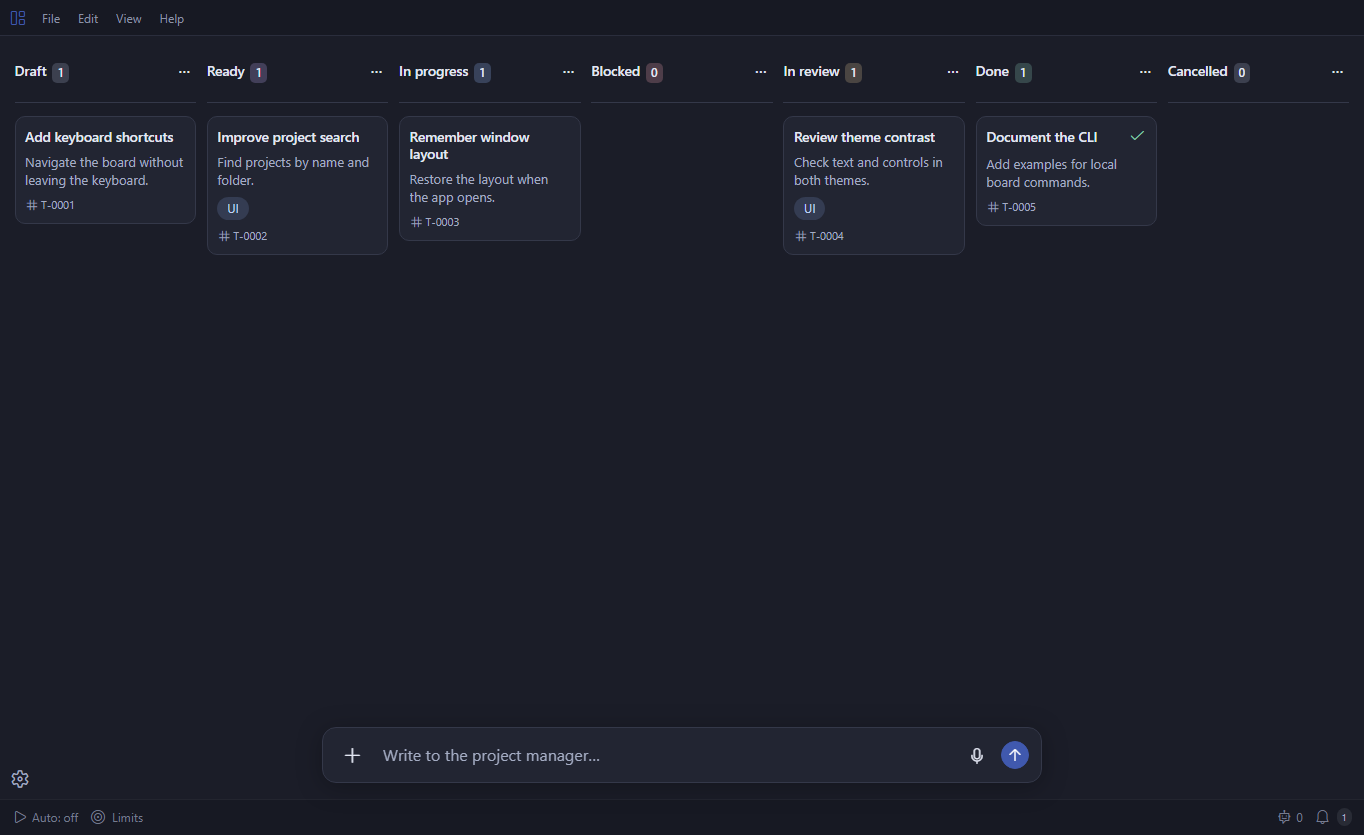
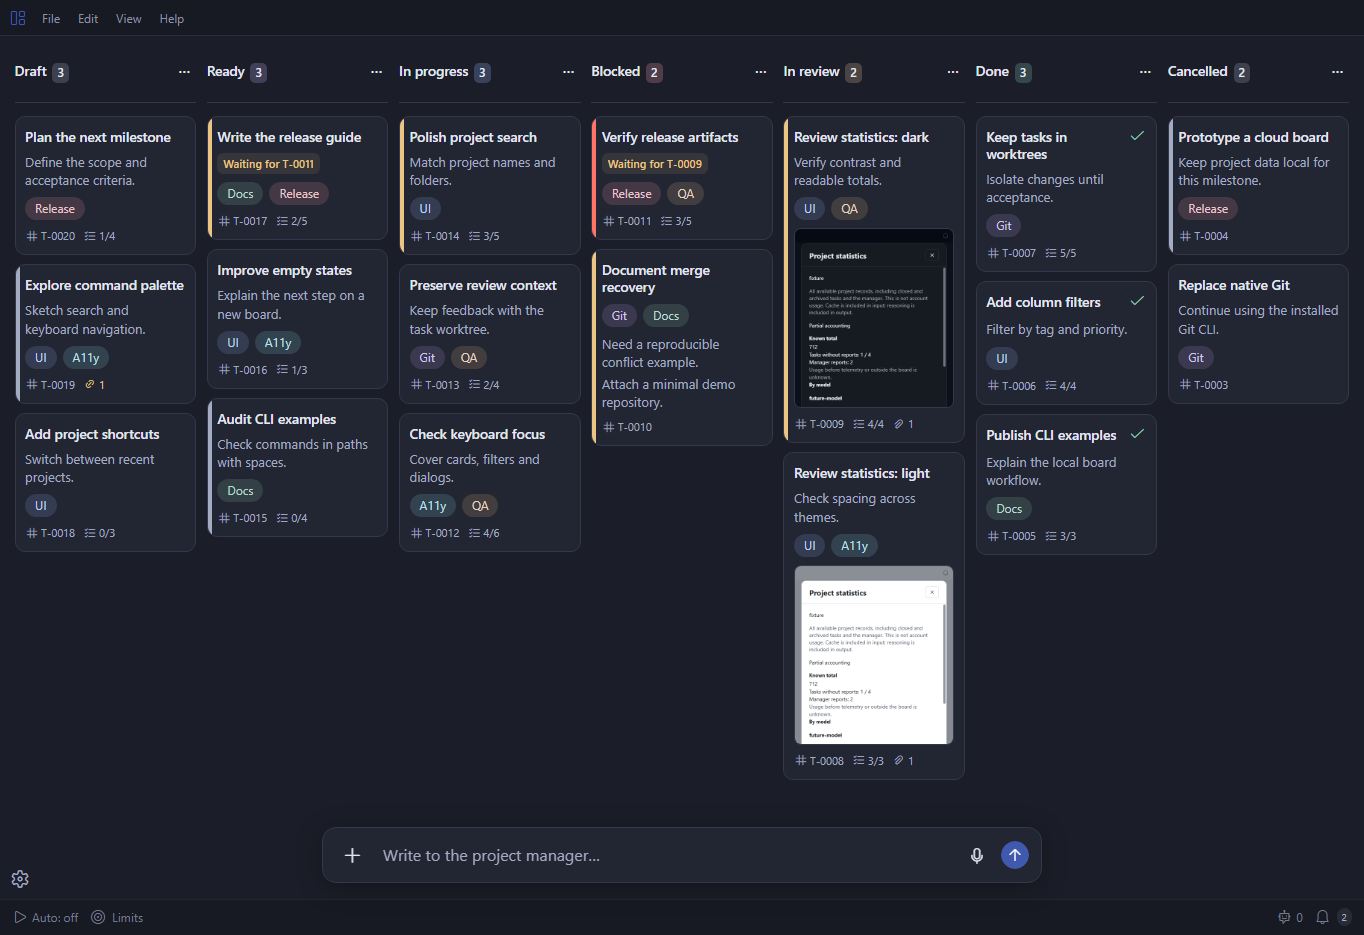
docs: enrich README screenshot with a populated demo board
Task: T-0099

diff --git a/docs/verification/T-0099/report.md b/docs/verification/T-0099/report.md
@@ -7,7 +7,7 @@
 | Критерий | Проверка и результат |
 | --- | --- |
 | Две версии и структура | Сопоставлены шапка, пять возможностей, пять шагов работы, требования, команды, четыре строки платформ и ограничения. Переключение языка работает в обе стороны. |
-| Настоящее изображение | `docs/images/board.png` снят с production renderer на базе `scripts/check-board.mjs`, с пятью демонстрационными карточками. HTML, CSS, Codicons и renderer взяты из приложения. Модель не запускалась; частные сообщения, пути и секреты в данные не передавались. Изображение просмотрено полностью. |
+| Настоящее изображение | `docs/images/board.png` снят с production renderer на базе `scripts/check-board.mjs`, с 18 демонстрационными карточками, цветными тегами, приоритетами, зависимостями, двумя превью и счётчиками подзадач. HTML, CSS, Codicons и renderer взяты из приложения. Модель не запускалась; частные сообщения, пути и секреты в данные не передавались. Изображение просмотрено полностью. |
 | Ссылки и якоря | Проверены 35 вхождений в двух README и руководстве разработчика: локальные файлы существуют, явные якоря найдены, два уникальных внешних URL Releases / Issues вернули HTTP 200. Бейджи CI, релизов и лицензии не добавлены. |
 | Факты и платформы | Сверены `package.json`, `electron-builder.json`, `scripts/package.mjs`, `docs/design.md`, `.vscode/launch.json`, каталоги локализации. T-0100 и T-0101 прочитаны через CLI: обе задачи в draft. На публичной странице Releases нет выпусков на 2026-11-17. Исторический отчёт T-0070 используется только как свидетельство проверок разработки на Windows, без заявления о полной квалификации установщика. |
 | Визуальный просмотр | Markdown-it 15.0.3 + Chromium из Electron 45.2.3, HTML с оформлением, близким к GitHub. Обе версии проверены на 1024 и 390 px: изображение загружается, якоря существуют, горизонтального переполнения страницы нет; таблицы прокручиваются отдельно. Просмотрены шапка и конец документа. Это локальный эквивалент рендера, не публикация на GitHub. |
@@ -55,9 +55,9 @@ node .tasks/qa/T-0099/render.mjs --artifacts .tasks/qa/T-0099/render
 
 SHA-256 файлов, сохраняемых в Git:
 
[6 lines of base64/hex data omitted]
 
 Референс прочитан для структуры шапки, навигации и таблицы: [Electron2D README](https://github.com/edwardgushchin/Electron2D). Предметный текст и лицензия референса не переносились. Отсутствие выпусков проверено на [странице Releases](https://github.com/edwardgushchin/AI-Taskboard/releases).
 
@@ -81,3 +81,24 @@ node --test tests/markdown.test.ts
 ```
 
 Результат полного npm test выше относится к прежней базе и не объявляется проверкой новой целевой ветки. Полный набор повторно не запускался: разрешение конфликта меняет только документацию; код продукта взят из целевой ветки без правок. Сборка лицензированного пакета также не повторялась: сборочные файлы и LICENSE/NOTICE сохранены из целевой ветки. Исторический тайм-аут UI-проверки остаётся результатом прежнего прогона, а не подтверждённым дефектом новой базы.
+
+## Доработка демонстрационной доски
+
+По замечанию пользователя из истории карточки (sequence 14) переснят интерфейс на базе `f4925916bda5a450df1e8917355f2c4adc30da8e`. Вместо пяти простых карточек показаны 18 карточек в семи колонках: 27 цветных меток шести видов, восемь карточек с приоритетом low/high/urgent, три индикатора зависимостей, два превью вложений и 14 счётчиков подзадач. Прогресс показан штатными счётчиками, включая завершённые подзадачи. Незавершённые зависимости ссылаются на другие карточки этой демонстрационной доски.
+
+Для превью использованы существующие настоящие снимки статистики из `docs/verification/T-0082/statistics-en-dark.png` и `statistics-en-light.png` с безопасными тестовыми данными. Фикстура передаёт данные production renderer; HTML, CSS и код приложения не менялись. Запуск модели, реальные агентские сессии и частные переписки не имитировались. Внешнего сервиса для создания картинки не использовали.
+
+Первый кандидат снимка скрывал нижнюю часть карточки за полем ввода. Окно увеличено до 1380 × 1000; итоговый PNG имеет размер 1364 × 935. Проверка геометрии подтверждает, что все карточки целиком выше поля ввода. Снимок просмотрен полностью, приоритеты, зависимости, теги и оба превью видны.
+
+Рендер обновлён для английской и русской версии на 1024 и 390 px. Проверены загрузка картинки, якоря и отсутствие переполнения страницы; четыре шапки просмотрены визуально. В первом рендере английской версии декодированная картинка ещё не попала в снимок Chromium. В сценарий проверки добавлено ожидание двух кадров и отрисовки; итоговые снимки пересняты и проверены глазами.
+
+45 вхождений ссылок повторно проверены на наличие локальных файлов и якорей. Внешние URL и текст README не менялись; результаты HTTP 200 предыдущего прохода остаются применимы. Команды, лицензия, платформенные заявления и руководство разработки также не менялись. Проверки TypeScript и Markdown предыдущего прохода на `f492591` остаются применимы: diff этого прохода содержит только три PNG и этот отчёт. Полный npm test повторно не запускался.
+
+Сценарии и компактные результаты приложены к сдаче: `capture-rich.mjs`, `render-rich.mjs`, `board-facts.json`, `rich-links.json`. Временные профили автоматически удалены существующим `electronCheck`; выделенная временная папка удалена после проверки отсутствия файлов.
+
+```sh
+node .tasks/qa/T-0099/capture-rich.mjs --artifacts .tasks/qa/T-0099/rich-demo
+node .tasks/qa/T-0099/render-rich.mjs --artifacts .tasks/qa/T-0099/render-rich
+```
+
+Обе версии README используют один `docs/images/board.png`, поэтому обновлены одновременно. Свежие снимки шапки сохранены выше; дополнительные ширины приложены к сдаче. Исходный текст документации и условия лицензии сохранены.
